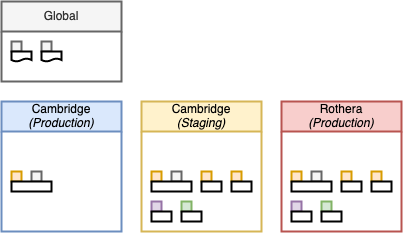
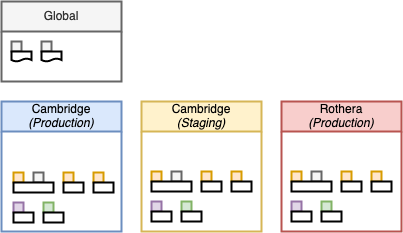
Adding Cambridge Production environment

Changed region(s): [[0.0, 0.721, 0.2978, 0.9614]]

diff --git a/README.md b/README.md
@@ -1290,6 +1290,8 @@ all instances/environments as this diagram:
 
 - [Cambridge (Staging) 🔒](https://start.1password.com/open/i?a=QSB6V7TUNVEOPPPWR6G7S2ARJ4&v=ffy5l25mjdv577qj6izuk6lo4m&i=rhe6qd7w46i5hrs42jhwtbnpuq&h=magic.1password.eu)
   - see [MAGIC/ops-data-store#39 🛡](https://gitlab.data.bas.ac.uk/MAGIC/ops-data-store/-/issues/39) for initial setup
+- [Cambridge (Production) 🔒](https://start.1password.com/open/i?a=QSB6V7TUNVEOPPPWR6G7S2ARJ4&v=ffy5l25mjdv577qj6izuk6lo4m&i=rzt4yigjenbkdtfho2famjzi3m&h=magic.1password.eu)
+  - see [MAGIC/ops-data-store#170 🛡](https://gitlab.data.bas.ac.uk/MAGIC/ops-data-store/-/issues/170) for initial setup
 - [Rothera (Production) 🔒](https://start.1password.com/open/i?a=QSB6V7TUNVEOPPPWR6G7S2ARJ4&v=ffy5l25mjdv577qj6izuk6lo4m&i=rhe6qd7w46i5hrs42jhwtbnpuq&h=magic.1password.eu)
   - see [MAGIC/ops-data-store#40 🛡](https://gitlab.data.bas.ac.uk/MAGIC/ops-data-store/-/issues/40) for initial setup
 
@@ -1297,6 +1299,8 @@ all instances/environments as this diagram:
 
 - [Cambridge (Staging) 🔒](https://start.1password.com/open/i?a=QSB6V7TUNVEOPPPWR6G7S2ARJ4&v=ffy5l25mjdv577qj6izuk6lo4m&i=wmpfl7kynx63yd3yzx2dyam7y4&h=magic.1password.eu)
   - see [MAGIC/ops-data-store#39 🛡](https://gitlab.data.bas.ac.uk/MAGIC/ops-data-store/-/issues/39) for initial setup
+- [Cambridge (Production) 🔒](https://start.1password.com/open/i?a=QSB6V7TUNVEOPPPWR6G7S2ARJ4&v=ffy5l25mjdv577qj6izuk6lo4m&i=wmpfl7kynx63yd3yzx2dyam7y4&h=magic.1password.eu)
+  - see [MAGIC/ops-data-store#170 🛡](https://gitlab.data.bas.ac.uk/MAGIC/ops-data-store/-/issues/170) for initial setup
 - [Rothera (Production) 🔒](https://start.1password.com/open/i?a=QSB6V7TUNVEOPPPWR6G7S2ARJ4&v=ffy5l25mjdv577qj6izuk6lo4m&i=wmpfl7kynx63yd3yzx2dyam7y4&h=magic.1password.eu)
   - see [MAGIC/ops-data-store#40 🛡](https://gitlab.data.bas.ac.uk/MAGIC/ops-data-store/-/issues/40) for initial setup
 

diff --git a/CHANGELOG.md b/CHANGELOG.md
@@ -13,6 +13,8 @@ Wherever possible, a reference to an issue in the project issue tracker should b
 
 * Database grants/permissions documentation and reference file
   [#153](https://gitlab.data.bas.ac.uk/MAGIC/ops-data-store/-/issues/153)
+* Cambridge production instance information
+  [#170](https://gitlab.data.bas.ac.uk/MAGIC/ops-data-store/-/issues/170)
 * Troubleshooting steps for broken GeoPackage backup
   [#179](https://gitlab.data.bas.ac.uk/MAGIC/ops-data-store/-/issues/179)
 
